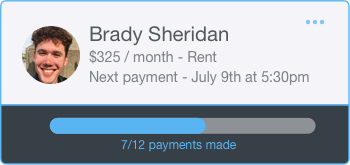
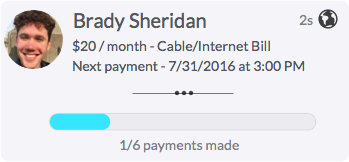
Added different feed cards and Thank You screen

diff --git a/modules/LandingScreen/LandingScreenView.js b/modules/LandingScreen/LandingScreenView.js
@@ -20,18 +20,24 @@ var dimensions = Dimensions.get('window');
 class ImageCarousel extends React.Component {
   render() {
     var imgWidth = dimensions.width - 50;
-    var imgHeight = 165 / 350;
+    var imgHeight = 160 / 350;
         imgHeight *= imgWidth;
     return (
       <Carousel hideIndicators={true} animate={true} delay={2750} width={dimensions.width}>
         <View style={[carousel.container, container.image]}>
-          <Image style={{width: imgWidth, height: imgHeight}} source={require('./assets/Eric.png')} />
-        </View>
-        <View style={[carousel.container, container.image]}>
-          <Image style={{width: imgWidth, height: imgHeight}} source={require('./assets/Mo.png')} />
-        </View>
-        <View style={[carousel.container, container.image]}>
           <Image style={{width: imgWidth, height: imgHeight}} source={require('./assets/Brady.png')} />
+        </View>
+        <View style={[carousel.container, container.image]}>
+          <Image style={{width: imgWidth, height: imgHeight}} source={require('./assets/Victory.png')} />
+        </View>
+        <View style={[carousel.container, container.image]}>
+          <Image style={{width: imgWidth, height: imgHeight}} source={require('./assets/EricSmith.png')} />
+        </View>
+        <View style={[carousel.container, container.image]}>
+          <Image style={{width: imgWidth, height: imgHeight}} source={require('./assets/Monica.png')} />
+        </View>
+        <View style={[carousel.container, container.image]}>
+          <Image style={{width: imgWidth, height: imgHeight}} source={require('./assets/Moh.png')} />
         </View>
       </Carousel>
     );
@@ -44,7 +50,10 @@ class LandingScreenDisplay extends React.Component {
     this.animationProps = {
       fadeAnim: new Animated.Value(0) // init opacity 0
     };
+
+
   }
+
   componentDidMount() {
     Animations.fadeIn(this.animationProps);
     Mixpanel.sharedInstanceWithToken('507a107870150092ca92fa76ca7c66d6');

diff --git a/modules/Tracking/TrackingView.js b/modules/Tracking/TrackingView.js
@@ -39,7 +39,7 @@ class TrackingEmpty extends React.Component {
 }
 
  /*Animations */
-    bouncingArrow(){
+     bouncingArrow(){
       Animated.sequence([
         Animated.timing(this.state.animatedStartValue, {
           toValue: 55,
@@ -84,18 +84,19 @@ class TrackingEmpty extends React.Component {
           style={{
             width: 64,
             height: 64,
+            left: 7,
             transform: [                        // `transform` is an ordered array
               {translateY: this.state.animatedStartValue},  // Map `bounceValue` to `scale`
             ]
           }}>
-                <Entypo name="chevron-thin-down" size={48} color="white" />
+            <Entypo name="chevron-thin-down" size={48} color="white"/>
           </Animated.Text>
 
         </View>
 
         <View style={containers.paymentContainer}>
-          <Button>
-             <View style={{borderRadius: 50, backgroundColor: "white", width: 64, height: 64, overflow: "hidden", alignItems: "center", justifyContent: "center", alignSelf: "center", right: 7.5}}>
+          <Button onPress={Actions.ThankYouView}>
+             <View style={{borderRadius: 50, backgroundColor: "white", width: 64, height: 64, overflow: "hidden", alignItems: "center", justifyContent: "center", alignSelf: "center"}}>
                  <Entypo name="credit" size={36} color="black"/>
              </View>
           </Button>

diff --git a/components/styles/typography.js b/components/styles/typography.js
@@ -1,0 +1,46 @@
+import {StyleSheet} from 'react-native';
+
+const typography = StyleSheet.create({
+  // General typography styles
+  general: {
+    fontFamily: "sans-serif",
+    fontFamily: "Roboto",
+    fontWeight: "normal",
+    color: "#F4F4F9"
+  },
+
+  // Varying font sizes (ex. "What's your email?")
+  fontSizeTitle: { fontSize: 32, textAlign: "center",   color: "#F4F4F9" },
+  fontSizeNote: { fontSize: 20 },
+  fontSizeError: { fontSize: 15},
+
+  textInput: {
+    height: 40,
+    backgroundColor: "transparent",
+    padding: 10,
+    paddingLeft: 0,
+    color: "#99ECFB"
+  },
+
+  // Helper styles
+  marginLeft: { marginLeft: 20 },
+  marginBottom: { marginBottom: 20 },
+  marginTop: { marginBottom: 20 },
+  marginRight: { marginBottom: 20 },
+  marginSides: {
+    marginLeft: 20,
+    marginRight: 20
+  },
+  padLeft: { paddingLeft: 20 },
+  padBottom: { paddingBottom: 20 },
+  padTop: { paddingBottom: 20 },
+  padRight: { paddingBottom: 20 }
+});
+
+const validation = StyleSheet.create({
+  contentContainer : {
+    flex: 0.5
+  }
+});
+
+export default typography;

diff --git a/Coincast.js b/Coincast.js
@@ -7,6 +7,7 @@ import Button from "react-native-button";
 
 // Custom components
 import LandingView from './components/LandingView'
+import ThankYouView from './components/ThankYouView'
 import LandingScreenView from './modules/LandingScreen/LandingScreenView'
 import CreateAccountViewContainer from './modules/CreateAccount/CreateAccountViewContainer'
 import TrackingContainer from './modules/Tracking/TrackingContainer'
@@ -47,6 +48,7 @@ export default class Coincast extends React.Component {
 
             { /* Main app flow */ }
             <Scene key="landingView" component={LandingView} title="LandingView"  initial={true} ></Scene>
+            <Scene key="ThankYouView" component={ThankYouView} title="ThankYouView"></Scene>
             <Scene key="CreateAccountViewContainer" component={CreateAccountViewContainer} title="CreateAccountViewContainer" />
             <Scene key="TrackingContainer" component={TrackingContainer} title="TrackingContainer" />
 

diff --git a/components/ThankYouView.js b/components/ThankYouView.js
@@ -1,0 +1,34 @@
+import React from 'react';
+import {View, Text, StyleSheet} from "react-native";
+import Button from "react-native-button";
+import {Actions} from "react-native-router-flux";
+import typography from "./styles/typography";
+
+const styles = StyleSheet.create({
+  container: {
+    flex: 1,
+    justifyContent: "center",
+    alignItems: "center",
+    backgroundColor: "#292B2E",
+  },
+
+  textStyling: {
+    fontFamily: "Roboto",
+    fontSize: 32,
+    color: "#F4F4F9",
+    fontWeight: "normal",
+    textAlign: "center"
+  }
+});
+
+class ThankYouView extends React.Component {
+  render(){
+    return (
+      <View {...this.props}  style={styles.container}>
+        <Text style={[styles.textStyling, typography.marginTop, typography.marginBottom, typography.marginSides]}>Thanks for taking part in this test. Have a great day!</Text>
+      </View>
+    );
+  }
+}
+
+module.exports = ThankYouView;

diff --git a/components/styles/containers.js b/components/styles/containers.js
@@ -1,0 +1,47 @@
+import {StyleSheet} from 'react-native';
+
+const containers = StyleSheet.create({
+  container: {
+    flex: 1
+  },
+  contentContainer: {
+    flex: 1,
+    justifyContent: "center"
+  },
+  justifyCenter: {
+    justifyContent: "center"
+  },
+  padHeader: {
+    paddingTop: 100
+  },
+
+  //
+  whole: { flex: 1.0 },
+  quox3: { flex: 0.75 },
+  half: { flex: 0.5 },
+  quo: { flex: 0.25 },
+  sixTenths: { flex: 0.6 },
+
+
+  // For testing
+  borderRed: {
+    borderColor: "red",
+    borderWidth: 1
+  },
+
+  textArrowContainer: {
+    flex: 1,
+    justifyContent: "flex-end",
+    alignItems: "center",
+  },
+
+  paymentContainer: {
+    /*flexDirection: "column",*/
+    flex: .25,
+    alignItems: "center",
+    justifyContent: "flex-end",
+    bottom: 5
+  }
+});
+
+export default containers;

diff --git a/components/styles/backgrounds.js b/components/styles/backgrounds.js
@@ -1,0 +1,13 @@
+import {StyleSheet} from 'react-native';
+
+const backgrounds = StyleSheet.create({
+  background: {
+    position: "absolute",
+    top: 0,
+    left: 0,
+    right: 0,
+    bottom: 0
+  },
+});
+
+export default backgrounds;

diff --git a/components/FacebookLogin.js b/components/FacebookLogin.js
@@ -39,9 +39,9 @@ class FacebookLogin extends React.Component {
     constructor(props) {
       super(props);
       this.destination = this.props.destination;
-
-
     }
+
+
     render(){
 
         return (

diff --git a/components/styles/images.js b/components/styles/images.js
@@ -1,0 +1,12 @@
+import {StyleSheet} from 'react-native';
+
+const images = StyleSheet.create({
+  paymentButton : {
+    width: 64,
+    height: 64
+  },
+});
+
+
+
+export default images;
